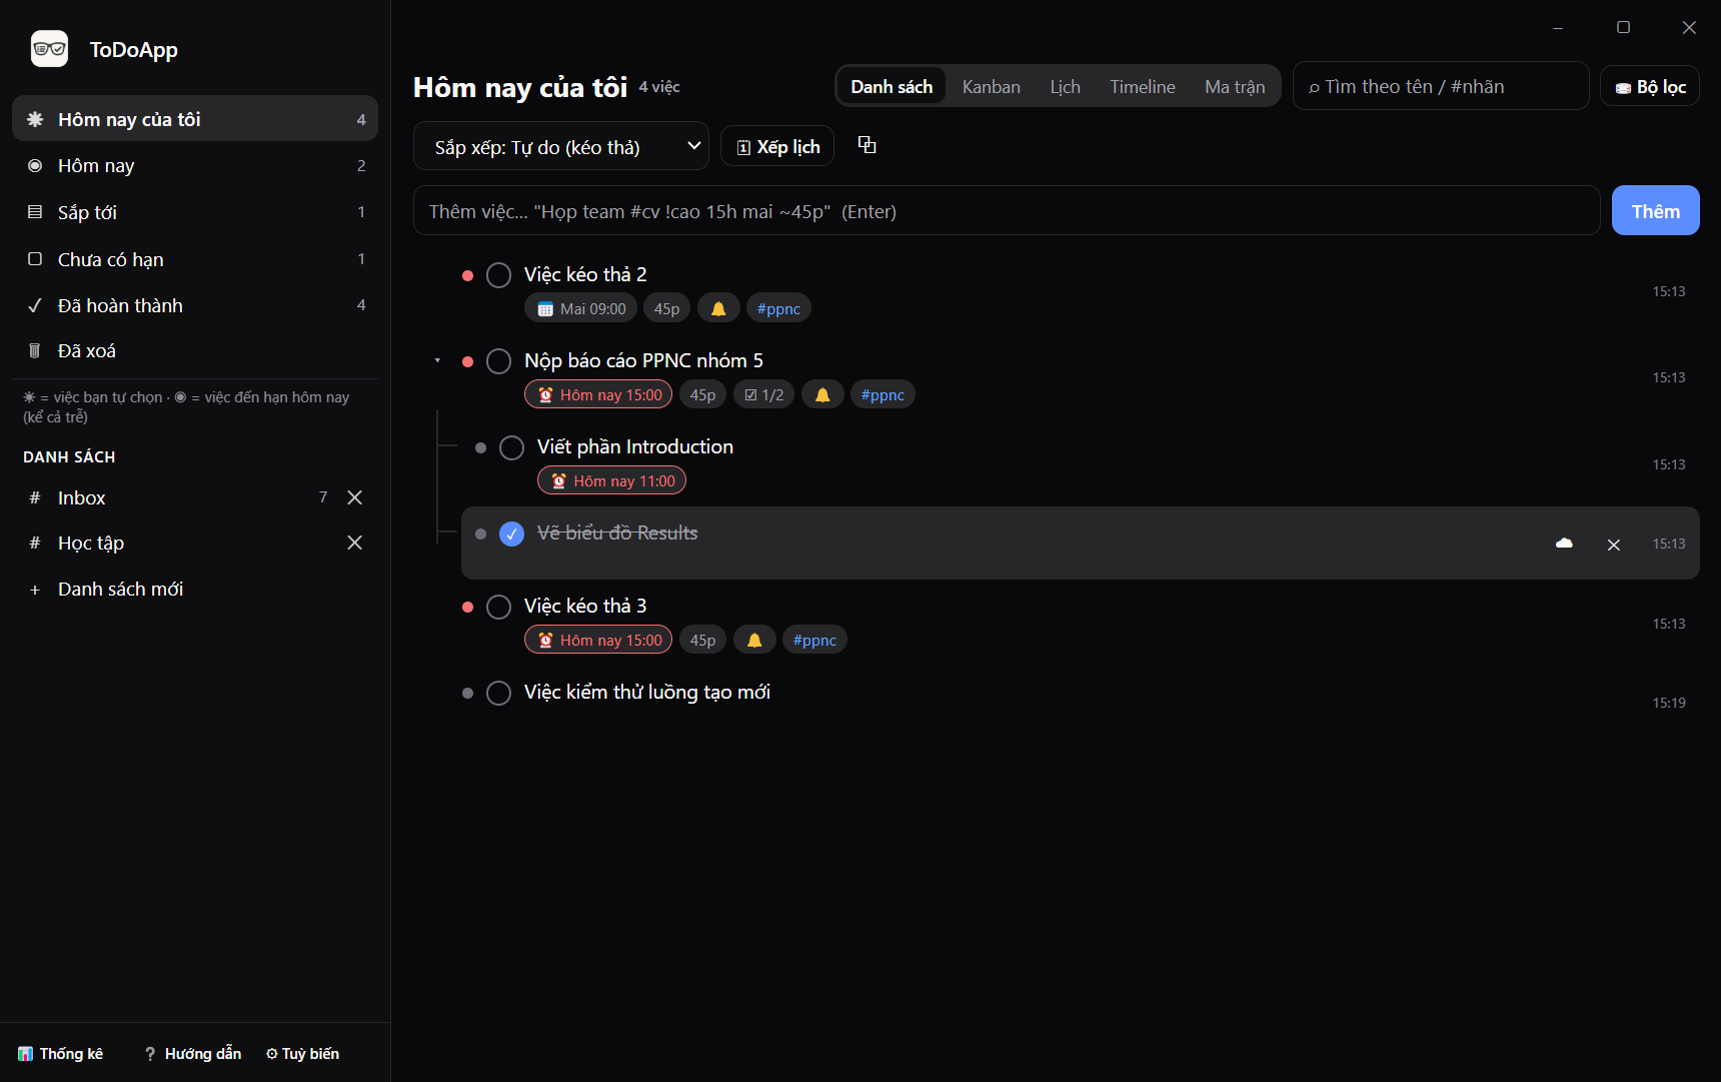
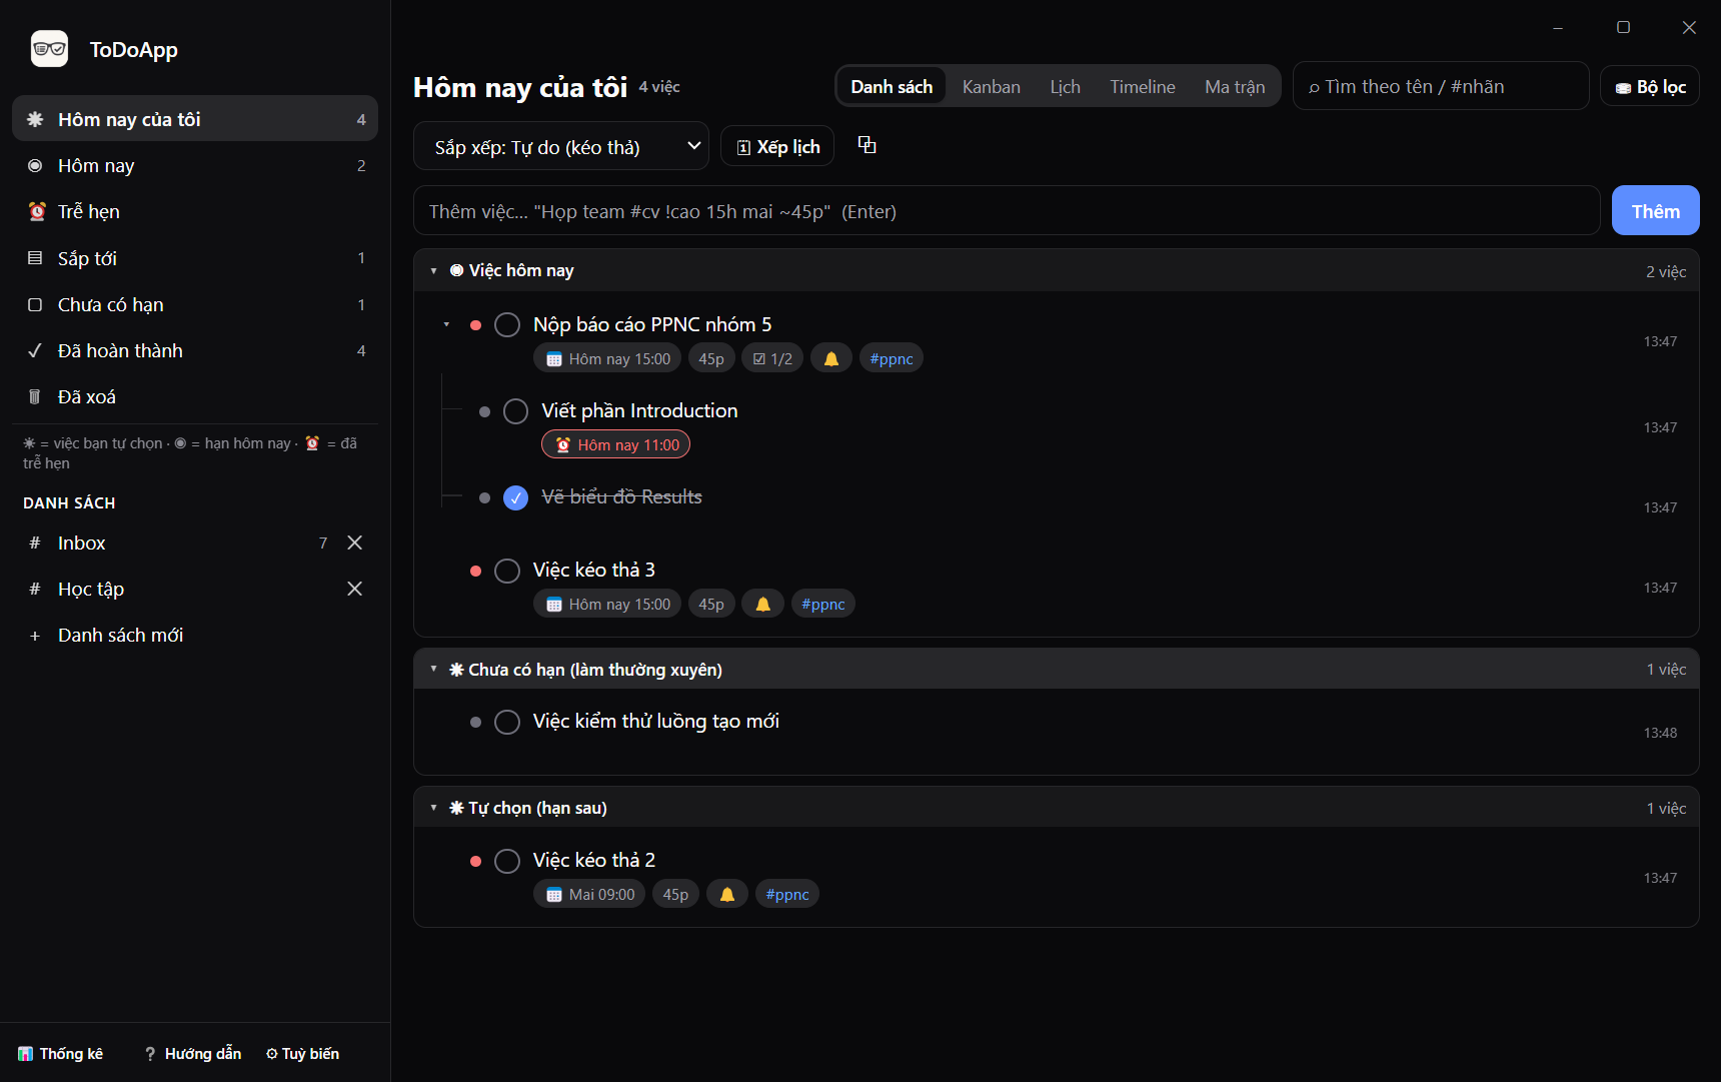
Chia nhom cho 2 khung: Tre hen gom theo NGAY den han (nhan ghi ro tre bao nhieu ngay), Hom nay cua toi chia 4 nhom theo ly do (viec hom nay / tre hen / chua co han - lam thuong xuyen / tu chon han sau) thay vi 1 danh sach tron; groupBy dung chung cho moi kieu thu muc; myDaySection vao lib/tasks.js (

diff --git a/lib/smoke.js b/lib/smoke.js
@@ -511,6 +511,53 @@ module.exports = function smoke() {
       if (!up.firstOpen) errs.push('probe: "Sắp tới" không mở sẵn thư mục gần nhất');
       if (up.rows < 3) errs.push('probe: "Sắp tới" thiếu việc (' + JSON.stringify(up) + ')');
       if (!up.labels.every((l) => /·/.test(l))) errs.push('probe: nhãn thư mục "Sắp tới" sai định dạng (' + JSON.stringify(up.labels) + ')');
+      // "Hôm nay của tôi" chia 4 nhóm + "Trễ hẹn" gom theo ngày và nói rõ TRỄ BAO LÂU.
+      // Probe này cũng là chốt cho whitelist preload.js: thiếu myDaySection/MYDAY_SECTIONS thì render chết
+      // (TypeError) và cả app không vẽ gì, chứ không chỉ sai nhóm.
+      const sec = await mainWin.webContents.executeJavaScript(`(async () => {
+        const wait = (ms) => new Promise((r2) => setTimeout(r2, ms));
+        const mk = (title, due, myDay) => ({ id: uid(), title, done: false, doneAt: null, stage: 'todo', createdAt: new Date().toISOString(), due, start: null, duration: 0, priority: 0, tags: [], listId: 'inbox', parentId: null, notes: '', repeat: null, remind: null, myDay, notifiedFor: null });
+        db.tasks.push(
+          mk('SEC hom nay', at(new Date(), 0, 15), null),
+          mk('SEC tre 2 ngay', at(new Date(), -2, 9), null),
+          mk('SEC khong han', null, ymd(new Date())),
+          mk('SEC tu chon sau', at(new Date(), 4, 9), ymd(new Date())));
+        commit(); ui.view = 'myday'; ui.mode = 'list'; ui.fold = {}; render(); await wait(350);
+        const groups = [...document.querySelectorAll('.body .group')];
+        const myday = groups.map((g) => {
+          const rows = [...g.querySelectorAll('.row .row-title')].map((x) => x.textContent);
+          return { label: g.querySelector('summary span').textContent, open: g.open, rows };
+        });
+        ui.view = 'late'; render(); await wait(300);
+        const late = [...document.querySelectorAll('.body .group')].map((g) => ({
+          label: g.querySelector('summary span').textContent,
+          rows: [...g.querySelectorAll('.row .row-title')].map((x) => x.textContent),
+        }));
+        db.tasks = db.tasks.filter((x) => !/^SEC /.test(x.title));
+        commit(); ui.view = 'myday'; render(); await wait(150);
+        return { myday, late };
+      })()`);
+      console.log('MYDAY-SECTIONS ' + JSON.stringify(sec));
+      const nhan = sec.myday.map((g) => g.label);
+      if (nhan.length !== 4) errs.push('probe: "Hôm nay của tôi" không chia đủ 4 nhóm (' + JSON.stringify(sec.myday) + ')');
+      if (!nhan[0].startsWith('◉') || !nhan[1].includes('Trễ') || !nhan[2].includes('Chưa có hạn') || !nhan[3].includes('Tự chọn')) {
+        errs.push('probe: nhãn/sai thứ tự nhóm trong "Hôm nay của tôi" (' + JSON.stringify(nhan) + ')');
+      }
+      // mỗi việc phải nằm ĐÚNG 1 nhóm, đúng nhóm theo lý do của nó (nhóm còn việc khác của fixture nên chỉ so "có mặt")
+      const wantSec = ['SEC hom nay', 'SEC tre 2 ngay', 'SEC khong han', 'SEC tu chon sau'];
+      wantSec.forEach((nm, i) => {
+        const got = (sec.myday[i] || {}).rows || [];
+        if (!got.some((x) => x.includes(nm))) errs.push('probe: "' + nm + '" không nằm đúng nhóm trong "Hôm nay của tôi" (' + JSON.stringify(sec.myday) + ')');
+      });
+      const allRows = sec.myday.flatMap((g) => g.rows);
+      for (const nm of wantSec) {
+        if (allRows.filter((x) => x.includes(nm)).length !== 1) errs.push('probe: "' + nm + '" nằm ở 0 nhóm hoặc bị lặp ở nhiều nhóm (' + JSON.stringify(allRows) + ')');
+      }
+      if (!sec.myday.every((g) => g.open)) errs.push('probe: nhóm trong "Hôm nay của tôi" không mở sẵn');
+      // "Trễ hẹn": việc trễ 2 ngày phải nằm trong thư mục của NGÀY đến hạn, nhãn ghi rõ trễ bao lâu
+      if (!sec.late.some((g) => /Trễ 2 ngày/.test(g.label) && g.rows.some((x) => x.includes('SEC tre 2 ngay')))) {
+        errs.push('probe: "Trễ hẹn" không gom theo ngày / không ghi rõ trễ bao lâu (' + JSON.stringify(sec.late) + ')');
+      }
       // THU GỌN / MỞ RỘNG việc con của việc cha (kiểu mở list)
       const fd = await mainWin.webContents.executeJavaScript(`(async () => {
         const wait = (ms) => new Promise((r2) => setTimeout(r2, ms));
@@ -767,7 +814,17 @@ module.exports = function smoke() {
           ])`);
           w.webContents.invalidate();
         } catch { /* cửa sổ đã hủy thì bỏ qua */ }
-        const png = (await w.webContents.capturePage()).toPNG();
+        // capturePage() cũng phải có timeout: nó treo vĩnh viễn khi cửa sổ bị che/mất kết nối vẽ ->
+        // lượt smoke dài đứng im ở đúng dòng này (watchdog chỉ báo được là có treo, không nói treo ở đâu).
+        const img = await Promise.race([
+          w.webContents.capturePage(),
+          new Promise((r) => setTimeout(() => r(null), 5000)),
+        ]);
+        if (!img || img.isEmpty()) {
+          errs.push('probe: chụp ảnh "' + name + '" không xong trong 5s (bỏ qua ảnh, không phải lỗi app)');
+          return '';
+        }
+        const png = img.toPNG();
         fs.writeFileSync(path.join(__dirname, '..', `smoke-${name}.png`), png);
         return png;
       };

diff --git a/renderer/views.js b/renderer/views.js
@@ -1,19 +1,29 @@
 'use strict';
 /* Các chế độ xem: danh sách, kanban, lịch, timeline, ma trận Eisenhower. */
 /* ---------------- list view ---------------- */
-// Gom theo NGÀY -> mỗi ngày là 1 thư mục gập/mở được (log cho dễ nhìn, không phải 1 danh sách dài)
-// openFirst: mở sẵn thư mục đầu tiên (dùng cho "Sắp tới" — việc gần nhất phải thấy ngay)
-function groupByDay(list, stampKey, renderRow, openFirst = false) {
+// Gom nhóm gập/mở được, dùng chung cho mọi kiểu "thư mục" (theo ngày, theo lý do):
+// openKey = nhóm luôn mở · openFirst = mở nhóm đầu tiên · 'all' = mở hết (danh sách cần xử lý ngay)
+// order = thứ tự nhóm cố định; bỏ trống thì giữ thứ tự xuất hiện (dùng cho list đã sort sẵn)
+function groupBy(list, keyFn, labelFn, renderRow, { openKey = null, openFirst = false, order = null } = {}) {
   const g = new Map();
-  for (const t of list) {
-    const k = t[stampKey] ? ymd(t[stampKey]) : '';
-    if (!g.has(k)) g.set(k, []);
-    g.get(k).push(t);
-  }
-  const today = ymd(new Date());
-  return h('div', { class: 'groups' }, ...[...g].map(([k, items], i) => h('details', { class: 'group', open: k === today || (openFirst && i === 0) },
-    h('summary', null, h('span', null, dayLabel(k)), h('span', { class: 'gct' }, items.length + ' việc')),
-    h('div', { class: 'gbody' }, ...items.map(renderRow)))));
+  for (const t of list) { const k = keyFn(t); if (!g.has(k)) g.set(k, []); g.get(k).push(t); }
+  const entries = order ? [...g].sort((a, b) => order.indexOf(a[0]) - order.indexOf(b[0])) : [...g];
+  return h('div', { class: 'groups' }, ...entries.map(([k, items], i) => h('details', {
+    class: 'group', open: k === openKey || openFirst === 'all' || (openFirst === true && i === 0),
+  },
+    h('summary', null, h('span', null, labelFn(k, items, i)), h('span', { class: 'gct' }, items.length + ' việc')),
+    h('div', { class: 'gbody' }, ...items.map(renderRow).flat()))));
+}
+// Gom theo NGÀY -> mỗi ngày là 1 thư mục gập/mở được (log cho dễ nhìn, không phải 1 danh sách dài)
+function groupByDay(list, stampKey, renderRow, openFirst = false, labelFn = dayLabel) {
+  return groupBy(list, (t) => (t[stampKey] ? ymd(t[stampKey]) : ''), labelFn, renderRow,
+    { openKey: ymd(new Date()), openFirst });
+}
+// 1 việc + các việc CON ngay dưới (thu gọn được) — dùng chung cho mọi danh sách
+function rowFull(t) {
+  const kids = kidsOf(t.id);
+  return [row(t, { fold: kids.length }),
+    ...(ui.fold[t.id] ? [] : kids.map((k, i) => row(k, { sub: true, last: i === kids.length - 1 })))];
 }
 
 /* ---------------- thùng rác (đã xoá) ---------------- */
@@ -46,21 +56,26 @@ function listView() {
   // "Đã hoàn thành" xem như log: gom theo ngày hoàn thành
   if (ui.view === 'completed') {
     if (!tasks.length) return h('div', { class: 'empty' }, 'Chưa hoàn thành việc nào.');
-    return groupByDay(tasks, 'doneAt', (t) => row(t));
+    return groupByDay(tasks, 'doneAt', rowFull);
   }
   // "Sắp tới" cũng là log theo thời gian: gom theo ngày đến hạn, gần nhất trước, mở sẵn ngày gần nhất
   if (ui.view === 'upcoming') {
     if (!tasks.length) return h('div', { class: 'empty' }, 'Không có việc nào sắp tới. Việc mới có hạn sẽ hiện ở đây.');
-    return groupByDay([...tasks].sort((a, b) => new Date(a.due || 8.64e15) - new Date(b.due || 8.64e15)), 'due', (t) => row(t), true);
+    return groupByDay([...tasks].sort((a, b) => new Date(a.due || 8.64e15) - new Date(b.due || 8.64e15)), 'due', rowFull, true);
+  }
+  // "Trễ hẹn": gom theo NGÀY ĐẾN HẠN (trễ của ngày nào) + nói rõ TRỄ BAO LÂU. Mở hết vì đây là việc cần dọn.
+  if (ui.view === 'late') {
+    if (!tasks.length) return h('div', { class: 'empty' }, 'Không có việc nào trễ hẹn 🎉');
+    return groupByDay(tasks, 'due', rowFull, 'all', lateLabel);
+  }
+  // "Hôm nay của tôi": chia rõ theo LÝ DO (việc hôm nay / trễ / chưa có hạn / tự chọn) thay vì 1 danh sách trộn
+  if (ui.view === 'myday') {
+    if (!tasks.length) return h('div', { class: 'empty' }, 'Chưa có việc nào cho hôm nay. Bấm ☀ ở một việc để thêm vào đây.');
+    return groupBy(tasks, (t) => T.myDaySection(t), (k) => MYDAY_LABEL[k] || k, rowFull,
+      { openFirst: 'all', order: T.MYDAY_SECTIONS });
   }
   if (!tasks.length) return h('div', { class: 'empty' }, 'Chưa có việc nào. Gõ vào ô thêm việc ở trên — thử: Họp team #cv !cao 15h mai ~45p');
-  const box = h('div');
-  for (const t of tasks) {
-    const kids = kidsOf(t.id);   // việc con nằm ngay dưới cha + có đường nối, thu gọn được
-    box.append(row(t, { fold: kids.length }));
-    if (!ui.fold[t.id]) kids.forEach((k, i) => box.append(row(k, { sub: true, last: i === kids.length - 1 })));
-  }
-  return box;
+  return h('div', null, ...tasks.map(rowFull).flat());
 }
 
 /* ---------------- kanban ---------------- */

diff --git a/lib/tasks.js b/lib/tasks.js
@@ -170,6 +170,17 @@ const overdue = (t, now = new Date()) => t.due && !t.done && new Date(t.due) < s
 const inMyDay = (t, now = new Date()) =>
   !t.done && (t.myDay === ymd(now) || ((isToday(t.due, now) || overdue(t, now)) && t.myDaySkip !== ymd(now)));
 
+/* "Hôm nay của tôi" chia theo LÝ DO việc nằm trong đó — thứ tự mảng này cũng là thứ tự hiển thị:
+   today  = đến hạn hôm nay        late   = đã quá hạn chót
+   nodate = không có hạn (việc làm thường xuyên: hằng ngày/tuần/tháng/năm)
+   pick   = tự chọn bằng ☀ mà hạn còn ở tương lai */
+const MYDAY_SECTIONS = ['today', 'late', 'nodate', 'pick'];
+function myDaySection(t, now = new Date()) {
+  if (!t.due) return 'nodate';
+  if (ymd(t.due) === ymd(now)) return 'today';
+  return new Date(t.due) < startOfDay(now) ? 'late' : 'pick';
+}
+
 function view(tasks, name, now = new Date()) {
   const top = tasks.filter((t) => !t.parentId);
   switch (name) {
@@ -224,6 +235,6 @@ function stats(tasks, days = 14, now = new Date()) {
 
 module.exports = {
   uid, PRIORITY, parseSmart, nextDue, toggleDone, subtaskProgress,
-  view, inMyDay, autoSchedule, stats, ymd, addDays, startOfDay, isToday, overdue,
+  view, inMyDay, myDaySection, MYDAY_SECTIONS, autoSchedule, stats, ymd, addDays, startOfDay, isToday, overdue,
   setDue, inheritDue, applyDueToChildren,
 };

diff --git a/lib/tasks.test.js b/lib/tasks.test.js
@@ -107,6 +107,15 @@ assert.ok(T.view(mv, 'myday', NOW).some((t) => t.id === 'm3'), 'việc quá hạ
 // việc xong rồi thì không tính là trễ nữa
 assert.deepStrictEqual(T.view([{ id: 'm4', listId: 'inbox', done: true, due: new Date(2026, 8, 1).toISOString() }], 'late', NOW), []);
 
+// "Hôm nay của tôi" chia 4 nhóm theo LÝ DO — việc làm thường xuyên (không hạn) phải nằm riêng khỏi việc hôm nay/trễ
+assert.deepStrictEqual(T.MYDAY_SECTIONS, ['today', 'late', 'nodate', 'pick']);
+assert.strictEqual(T.myDaySection(mv[0], NOW), 'nodate', 'việc không có hạn phải vào nhóm "chưa có hạn"');
+assert.strictEqual(T.myDaySection(mv[1], NOW), 'today');
+assert.strictEqual(T.myDaySection(mv[2], NOW), 'late');
+assert.strictEqual(T.myDaySection({ id: 'm5', due: new Date(2026, 8, 20, 9, 0).toISOString() }, NOW), 'pick', 'tự chọn mà hạn ở tương lai phải vào nhóm riêng');
+// việc con không được tự đứng riêng trong My Day (chỉ có cha nằm ở danh sách gốc)
+assert.deepStrictEqual(T.view([{ id: 'm6', listId: 'inbox', parentId: 'm2', done: false, due: null, myDay: '2026-09-11' }], 'myday', NOW), []);
+
 // auto-schedule: 2 tasks x 30m starting 9h, no overlap
 const plan = T.autoSchedule([
   { id: 'x', done: false, duration: 30, due: null, priority: 0 },

diff --git a/renderer/shell.js b/renderer/shell.js
@@ -2,9 +2,9 @@
 /* Khung app: sidebar, topbar, thanh thêm việc, bảng lọc, bảng xác nhận xoá, hàm render tổng. */
 /* ---------------- sidebar ---------------- */
 const NAV_HELP = {
-  myday: 'Việc đến hạn hôm nay + việc đã trễ + việc bạn TỰ CHỌN (bấm ☁ ở mỗi việc để thêm vào, ☀ để bỏ ra)',
+  myday: 'Chia 4 nhóm: Việc hôm nay (◉) · Trễ hẹn (⏰) · Chưa có hạn — việc làm thường xuyên (☀) · Tự chọn hạn sau. Bấm ☀/☁ ở mỗi việc để thêm/bỏ khỏi danh sách này',
   today: 'Việc có HẠN đúng hôm nay (việc quá hạn nằm ở "Trễ hẹn")',
-  late: 'Gom MỌI việc đã quá hạn chót mà chưa xong — cũ nhất lên trước',
+  late: 'Việc đã quá hạn chót, gom theo TỪNG NGÀY đến hạn — thư mục ghi rõ trễ bao nhiêu ngày',
   upcoming: 'Việc có hạn trong những ngày tới, gom theo từng ngày',
   nodate: 'Việc chưa đặt ngày đến hạn',
   completed: 'Log việc đã xong, gom theo từng ngày',

diff --git a/preload.js b/preload.js
@@ -1,6 +1,6 @@
 'use strict';
 const { contextBridge, ipcRenderer } = require('electron');
-const { parseSmart, view, inMyDay, autoSchedule, stats, toggleDone, subtaskProgress, overdue, setDue, inheritDue } = require('./lib/tasks');
+const { parseSmart, view, inMyDay, myDaySection, MYDAY_SECTIONS, autoSchedule, stats, toggleDone, subtaskProgress, overdue, setDue, inheritDue } = require('./lib/tasks');
 
 contextBridge.exposeInMainWorld('api', {
   load: () => ipcRenderer.invoke('db:load'),
@@ -30,5 +30,5 @@ contextBridge.exposeInMainWorld('api', {
   addTask: (task) => ipcRenderer.invoke('task:add', task),
   testAlert: () => ipcRenderer.invoke('app:testAlert'),
   isMini: new URLSearchParams(location.search).get('mini') === '1',
-  T: { parseSmart, view, inMyDay, autoSchedule, stats, toggleDone, subtaskProgress, overdue, setDue, inheritDue },
+  T: { parseSmart, view, inMyDay, myDaySection, MYDAY_SECTIONS, autoSchedule, stats, toggleDone, subtaskProgress, overdue, setDue, inheritDue },
 });

diff --git a/renderer/core.js b/renderer/core.js
@@ -78,6 +78,19 @@ function dayLabel(key) {
   const wd = ['Chủ nhật', 'Thứ hai', 'Thứ ba', 'Thứ tư', 'Thứ năm', 'Thứ sáu', 'Thứ bảy'][d.getDay()];
   return `${rel || wd} · ${md}`;
 }
+/* Nhãn 4 nhóm trong "Hôm nay của tôi" — khoá phải khớp T.MYDAY_SECTIONS (thứ tự nhóm lấy từ đó) */
+const MYDAY_LABEL = {
+  today: '◉ Việc hôm nay',
+  late: '⏰ Trễ hẹn',
+  nodate: '☀ Chưa có hạn (làm thường xuyên)',
+  pick: '☀ Tự chọn (hạn sau)',
+};
+/* Nhãn nhóm trong "Trễ hẹn": nói rõ TRỄ BAO LÂU chứ không chỉ lặp lại ngày đến hạn */
+function lateLabel(key, items) {
+  const n = Math.round((startOfDay(new Date()) - startOfDay(items[0].due)) / 864e5);
+  const [y, m, d] = key.split('-');
+  return `${n <= 1 ? 'Trễ từ hôm qua' : 'Trễ ' + n + ' ngày'} · ${d}/${m}/${y}`;
+}
 
 function hexToHsl(hex) {
   const m = /^#?([a-f\d]{2})([a-f\d]{2})([a-f\d]{2})$/i.exec(hex || '');
